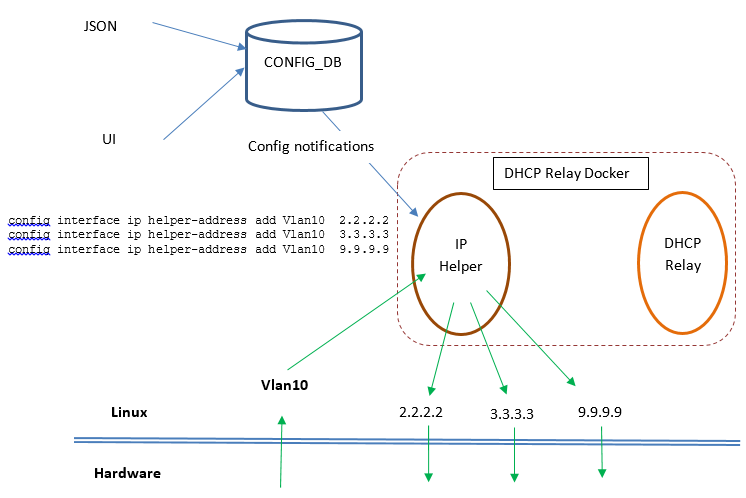
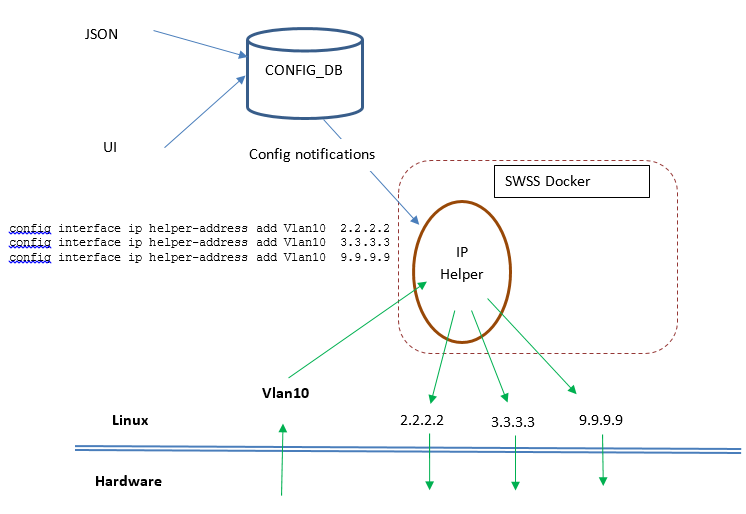
Review comments addressed in IP Helper HLD

diff --git a/L3/ip_helper/ip_helper.md b/L3/ip_helper/ip_helper.md
@@ -22,8 +22,8 @@
   * [2 Functionality](#2-functionality)
     * [2.1 Target Deployment Use Cases](#21-target-deployment-use-cases)
     * [2.2 Functional Description](#22-functional-description)
-	  * [2.2.1 UDP ports forwarded](#221-udp-ports-forwarded)
-	  * [2.2.2 VRF support](#222-vrf-support)
+      * [2.2.1 UDP ports forwarded](#221-udp-ports-forwarded)
+      * [2.2.2 VRF support](#222-vrf-support)
     * [2.2.3 Packet validation](#223-packet-validation)
   * [3 Design](#3-design)
     * [3.1 Overview](#31-overview)
@@ -40,19 +40,19 @@
       * [3.4.2 Configuration Commands](#342-configuration-commands)
       * [3.4.3 Show Commands](#343-show-commands)
       * [3.4.4 Clear Commands](#344-clear-commands)      
-  * [4 Flow Diagrams](#4-flow-diagrams)
-  * [5 Error Handling](#5-error-handling)
-  * [6 Serviceability and Debug](#6-serviceability-and-debug)
-  * [7 Warm Boot Support](#7-warm-boot-support)
-  * [8 Scalability](#8-scalability)
-  * [9 Unit Test](#9-unit-test)
-    * [9.1 CLI Test Cases](#91-cli-test-cases)
-    * [9.2 Rest API Test Cases](#92-rest-api-test-cases)
-    * [9.3 Functional Test Cases](#93-functional-test-cases)
-    * [9.4 Scaling Test Cases](#94-scaling-test-cases)
-    * [9.5 Warm Boot Test Cases](#95-warm-boot-test-cases)
-    * [9.6 Negative Test Cases](#96-negative-test-cases)
-  
+  * [4 Error Handling](#5-error-handling)
+  * [5 Serviceability and Debug](#6-serviceability-and-debug)
+  * [6 Warm Boot Support](#7-warm-boot-support)
+  * [7 Scalability](#8-scalability)
+  * [8 Unit Test](#9-unit-test)
+    * [8.1 CLI Test Cases](#91-cli-test-cases)
+    * [8.2 Rest API Test Cases](#92-rest-api-test-cases)
+    * [8.3 Functional Test Cases](#93-functional-test-cases)
+    * [8.4 Scaling Test Cases](#94-scaling-test-cases)
+    * [8.5 Warm Boot Test Cases](#95-warm-boot-test-cases)
+    * [8.6 Negative Test Cases](#96-negative-test-cases)
+  * [9 Future support](#9-future-support)
+
 # List of Tables
 [Table 1: Abbreviations](#table-1-abbreviations)
 
@@ -80,16 +80,16 @@ This document describes the high level design of IP Helper functionality.
 ## 1.1 Requirements
 ### 1.1.1 Functional Requirements
 1. Support relaying of UDP broadcast packets as unicast packets to the configured server also referred to as IP Helper address. Relay address and Helper address are used interchangeably through out the document.
-2. Support configuration of the IP Helper address in interface configuration mode.
+2. Support configuration of the IP Helper address per interface.
 3. Support configuration of up to 4 IP Helper addresses per interface.
 4. Support for enabling UDP broadcast forwarding on default or custom UDP ports to be relayed.
-5. Configuring an ip helper address along with UDP forwarding enable, allows relaying by default on the UDP default ports (more details in section 2).
+5. Configuring an IP helper address along with UDP forwarding enable, allows relaying by default on the UDP default ports (more details in section 2).
 6. Support relay of all-ones broadcast (255.255.255.255) and subnet broadcasts.
 7. IP helper addresses are supported in IPv4 address family.
 8. IPv4 broadcast packets other than UDP are not relayed.
 9. IP Helper does not relay the DHCP broadcast packets. These are processed by DHCP Relay application.
-10. If more than 1 IP Helper address is configured, the UDP broadcasts are relayed to all the servers configured on the interface.
-11. Support configuring IP Helper address reachable via a VRF domain. Useful in scenarios where the clients and servers are in different Virtual Forwarding domains.
+10. If more than 1 IP Helper address is configured, the UDP broadcasts are relayed to all the IP Helper addresses configured on the interface.
+11. Support configuring IP Helper address reachable via a different VRF domain. Useful in scenarios where the clients and servers are in different Virtual Forwarding domains.
 12. Support configuration of IP Helper addresses on all L3 routing interfaces including Physical Ethernet, PortChannel and VLAN.
 13. UDP broadcast traffic needs to be trapped to CPU to be software forwarded to configured relay server addresses.
 14. UDP broadcast traffic is dropped if no Helper addresses are configured (or) if there is no route to the Helper addresses.
@@ -114,8 +114,7 @@ UDP broadcast packets are trapped to CPU to be relayed in the slow path.
 IP Helper application is responsible for forwarding the UDP broadcasts as unicast packets to the relay servers.
 
 ### 1.2.2 Container
-IP Helper process runs as part of the DHCP Relay docker in SONiC as both Helper and DHCP Relay are similar in the functionality. Creating a new docker for IP Helper is inefficient.
-Whenever the DHCP Relay docker is restarted (due to changes in DHCP Relay configuration), the IP Helper functionality is interrupted.
+IP Helper process runs as part of the swss docker in SONiC.
 
 ### 1.2.3 SAI Overview
 There are no changes to SAI headers/implementation to support this feature. Relayed packets are software forwarded and sent out via socket APIs through the kernel.
@@ -141,9 +140,9 @@ When the Helper address is configured on an interface and global UDP forwarding 
 - TACACS service (port 49)
 By default the forwarding to default UDP ports is disabled.
 
-User can exclude any of the default UDP ports from being forwarded using the 'config ip forward_protocol udp remove [port]' command.
+User can exclude any of the default UDP ports from being forwarded to using the 'config ip forward_protocol udp remove [port]' command.
 User can configure custom UDP ports to be relayed by passing the UDP port argument in the 'config ip forward_protocol udp add [port]' command.
-If the configured port matches the DHCP port, the packets are not forwarded by the IP Helper application, since the DHCP packets are relayed by the DHCP Relay application.
+DHCP port is not allowed to be configured in the IP Helper forwarded ports, since it is handled by the DHCP Relay application.
 
 ### 2.2.3 VRF support
 User can configure the server address reachable in a VRF domain, to relay the packets to.
@@ -155,32 +154,31 @@ Packets are relayed only if they meet the following criteria:
 - Destination IP address should be 255.255.255.255 or subnet broadcast of the receiving interface (for eg., 10.10.10.255 for the interface configured with subnet IP 10.10.10.10/24).
 - UDP port must be one the ports configured to be forwarded (default or custom ports).
 - IP TTL value should be >= 2.
-- Helper addresses are configured on the incoming interface.
+- Helper address(es) are configured on the incoming interface.
 - UDP forwarding global command should have been enabled.
 
-If none of the criteria is met, the packets are not relayed.
+If any of the criteria is not met, the packets are not relayed.
 
 # 3 Design
 
 ## 3.1 Overview
 New daemon "IP Helper Manager" is added for the Helper functionality.
 
+![IP Helper Flow Diagram](images/ip_helper_flow_diagram.png)
+
 ### 3.1.1 IP Helper Manager
 IP Helper Manager listens to the following events:
-- Global UDP forwarding from CONFIG_DB
+- Global UDP forwarding configuration from CONFIG_DB
 - Helper addresses from the INTERFACE/VLAN_INTERFACE/PORTCHANNEL_INTERFACE CONFIG tables
 - Interface table create/delete events from CONFIG_DB.
 - Flush notification event from UI to clear the statistics in the COUNTERS_IP_HELPER table.
 
-When the IP UDP forwarding is enabled, a system policy is added to trap the UDP broadcast packets to CPU at the configured rate limit value onto a low priority CoS queue 0.
+When the IP UDP forwarding is enabled, an ACL policy is added to trap the UDP broadcast packets to CPU at the configured rate limit value onto a low priority CoS queue 0.
 
 ### 3.1.2 Packet processing
-IP Helper Manager reads the broadcast and net-directed broadcast packets from the kernel incoming on any interface via UDP sockets with the following socket options enabled.
-- SO_BROADCAST to receive the broadcast packets
-- IP_RECVPKTINFO to receive the fields like Destination-IP and the Incoming interface index.
-- IP_RECVTTL to receive the TTL in the incoming packet.
+IP Helper Manager receives the broadcast and net-directed broadcast packets incoming on any interface, via UDP RAW sockets with the IP_PKTINFO socket option enabled.
 
-Following the reception, the packet is validated (as mentioned in 2.2.3), the TTL value is decremented and the packet is sent out in the appropriate routing domain to the Helper addresses.
+Following the reception, the packet is validated (as mentioned in 2.2.3), the IP TTL value is decremented, UDP checksum recalculated and the packet is sent out in the appropriate routing domain to the Helper addresses.
 
 ### 3.1.3 Rate limiting
 ACL rule is added to rate limit the CPU bound packets based on the match criteria:
@@ -196,6 +194,8 @@ To support a list of Helper addresses on an L3 interface, INTERFACE table is mod
     "Ethernet24": {
         "helper_addresses": ["31.1.0.2" , "2.2.2.3" , "vrf20|11.19.0.144"]
     }
+
+The Redis DB content looks like:
 
 127.0.0.1:6379[4]> hgetall INTERFACE|Ethernet24
 1) "helper_addresses@"
@@ -246,7 +246,7 @@ udp-port-number            = 1*5DIGIT
 rate-limit-value           = 3*5DIGIT
 ```
 ### 3.2.2 APP DB
-NO new tables are needed in APP_DB or STATE_DB for the IP Helper feature.
+No new tables are needed in APP_DB or STATE_DB for the IP Helper feature.
 
 ### 3.2.3 COUNTER DB
 Following table is introduced to display the statistics of the relayed packets.
@@ -257,7 +257,6 @@ COUNTERS_IP_HELPER:<interface>
     "Packets relayed"
     "Packets dropped"
     "Invalid TTL packets"
-    "Dropped as forwarding not enabled"
     "All ones broadcast packets received"
     "Net directed broadcast packets received"
 ```
@@ -272,10 +271,10 @@ N/A
 ### 3.4.2 Configuration Commands
 
 ```
-1. config interface ip helper-address add <interface-name> <ip-address> [-vrf <vrf-name]
+1. config interface ip helper_address add <interface-name> <ip-address> [-vrf <vrf-name]
 Add IP helper address on an interface.
 
-2. config interface ip helper-address remove <interface-name> <ip-address> [-vrf <vrf-name]
+2. config interface ip helper_address remove <interface-name> <ip-address> [-vrf <vrf-name]
 Remove IP helper address on an interface.
 
 3. config ip forward_protocol udp enable
@@ -291,16 +290,16 @@ Add UDP port to the list of forwarding ports.
 Remove UDP port from the list of forwarding ports.
 
 7. config ip forward_protocol udp rate_limit <value-in-pps>
-Configure the UDP broadcast packet rate limiting value in the range 600 - 10000 pps. The default value is 6000 pps.
+Configure the UDP broadcast packet rate limiting value in the range 600 - 10000 pps. The default value is 600 pps.
 ```
 
 ### 3.4.3 Show Commands
 
 ```
-1. show ip helper-address config <interface>
+1. show ip helper_address config <interface>
 Use this command to display the IP Helper configuration on the interface
 
-# show ip helper-address config Ethernet24
+# show ip helper_address config Ethernet24
 
     Interface   Vrf         Relay address
     -------------------------------------
@@ -308,10 +307,10 @@ Use this command to display the IP Helper configuration on the interface
                             2.2.2.3
                 vrf20       11.19.0.144
 
-2. show ip helper-address config
+2. show ip helper_address config
 Use this command to display the IP Helper configuration on all the interfaces
 
-# show ip helper-address config
+# show ip helper_address config
 
     Interface   Vrf         Relay address
     -------------------------------------
@@ -327,71 +326,65 @@ Use this command to display the IP Helper Global configuration
 # show ip forward_protocol config
 
     UDP forwarding: Enabled
+
     UDP rate limit: 6000 pps
 
-    UDP forwarding enabled on the ports:
-    TFTP , NTP , 330 , 234, 1000
+    UDP forwarding enabled on the ports: TFTP , NTP , 330 , 234, 1000
 
-    UDP forwarding disabled on the ports:
-    DNS , NetBios-Name-server , NetBios-datagram-server
+    UDP forwarding disabled on the ports: DNS , NetBios-Name-server , NetBios-datagram-server
 
-4. show ip helper-address statistics <interface>
-Use this command to display the IP Helper statistics on the interface
+4. show ip helper_address statistics [<interface>]
+Use this command to display the IP Helper statistics on the interface.
+Without the optional interface argument, the statistics are displayed for all the configured interfaces.
 
-# show ip helper-address statistics Ethernet24
+# show ip helper_address statistics Ethernet24
 
     Packets received                              : 1098
     Packets relayed                               :  980
     Packets dropped                               :  118
     Invalid TTL packets                           :   22
-    Dropped as forwarding not enabled             :   96 
     All ones broadcast packets received           :  602
     Net directed broadcast packets received       :  496
 ```
 ### 3.4.4 Clear Commands
 
 ```
-1. clear ip helper-address statistics <interface>
+1. clear ip helper_address statistics <interface>
 Use this command to clear the relay statistics on an interface.
 
-2. clear ip helper-address statistics
+2. clear ip helper_address statistics
 Use this command to clear the relay statistics on all the interfaces.
 ```
 
-# 4 Flow Diagrams
-
-Below diagram shows the interactions of the IP Helper application with rest of the components in SONiC.
-
-![IP Helper Flow Diagram](images/ip_helper_flow_diagram.png)
-
-# 5 Error Handling
+# 4 Error Handling
 
 As there is no programming related to the IP Helper feature in the hardware, no hardware error handling is needed for this feature. Any error conditions while relaying the packets can be monitored from the statistics and the logs.
 
-# 6 Serviceability and Debug
+# 5 Serviceability and Debug
 The relay statistics can be displayed per interface.
 The swssloglevel utility can be used to enable debug tracing of the code at different severity levels.
-Tracing of the packets relayed by the IP Helper application can be enabled/disabled using 'debug ip_helper packets enable' and 'debug ip_helper packets disable' commands.
 All the show command outputs are captured as part of the 'show tech-support' output.
 
-# 7 Warm Boot Support
+# 6 Warm Boot Support
 Not applicable for this feature.
 
-# 8 Scalability
+# 7 Scalability
 Up to 4 IP Helper addresses can be configured on each of the routing interface in the system.
+Up to 15 UDP ports (including default and custom ports) are allowed to be configured.
 
-# 9 Unit Test
-## 9.1 CLI Test Cases
+# 8 Unit Test
+## 8.1 CLI Test Cases
 1. Verify that the global UDP forwarding command is working as expected.
 2. Verify that the UDP ports can be excluded or included from the list of forwarding ports.
 3. Verify that the IP Helper addresses can be configured and unconfigured on an interface.
 4. Verify that the IP Helper addresses can be configured in a VRF routing domain.
 5. Verify that the clear statistics command is working as expected.
+6. Verify that all show commands are correctly formatted and show the correct information.
    
-## 9.2 Rest API Test Cases
+## 8.2 Rest API Test Cases
 N/A
 
-## 9.3 Functional Test Cases
+## 8.3 Functional Test Cases
 1. Enable global UDP forwarding and configure IP Helper address on an interface and verify relaying is working.
 2. Disable global UDP forwarding and verify that relay is not happening.
 3. With global UDP forwarding enabled, verify that the relay is happening for all the default UDP ports.
@@ -402,11 +395,15 @@ N/A
 8. Send UDP broadcast traffic and verify that the relay statistics are implemented.
 9. Execute the clear statistics command and and verify that the statistics are cleared.
 10. Configure relay address in a VRF and verify that the packets are relayed in the VRF domain.
+11. Check that the global rate limit is correctly applied.
 
-## 9.4 Scaling Test Cases
+## 8.4 Scaling Test Cases
 1. Verify that 4 IP Helper addresses are configured on all the routing interfaces in the system and the forwarding of the UDP broadcast packets received on all the routing interfaces is happening.
 
-## 9.5 Negative Test Cases
+## 8.5 Negative Test Cases
 1. Verify that the relay is not working if the IP Helper address is not reachable in a default or non-default VRF routing domain.
 2. Verify that the relay is not working if the VRF of the configured Helper address does not exist.
 
+# 9 Future support
+1. Support for per interface per helper address statistics.
+2. Support for REST/gNMI/IS-CLI UI interfaces.
